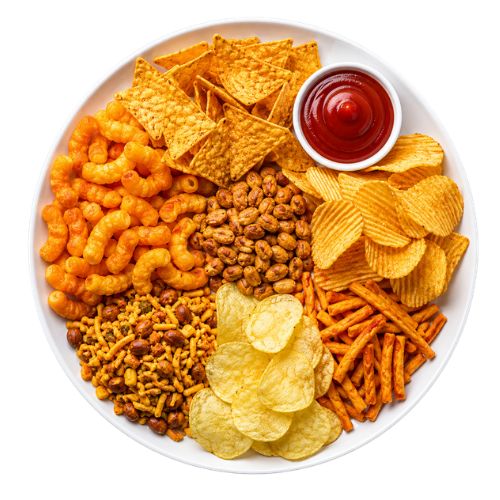
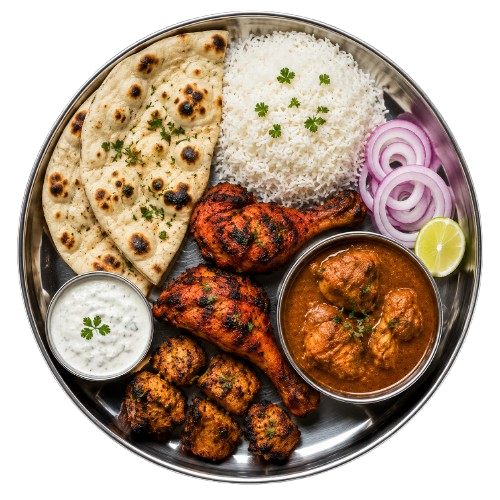
Chanegs added

diff --git a/frontend/src/components/TiffinRendor/TiffinRendor.jsx b/frontend/src/components/TiffinRendor/TiffinRendor.jsx
@@ -20,7 +20,7 @@ const menuItems = [
   },
   {
     id: "thali2",
-    name: "SPECIAL TIFFIN",
+    name: "VEGETARIAN THALI",
     description:
       "Fresh and healthy home-style tiffin with a variety of delicious curries, breads, and perfect flavors crafted for your daily cravings.",
 
@@ -34,7 +34,7 @@ const menuItems = [
   },
   {
     id: "thali3",
-    name: "EVENING SNACKS",
+    name: "NON-VEG THALI",
     description:
       "Delicious bite-sized treats crafted with fresh ingredients and bold flavors, perfect for a quick snack, light craving, or anytime enjoyment.",
 
